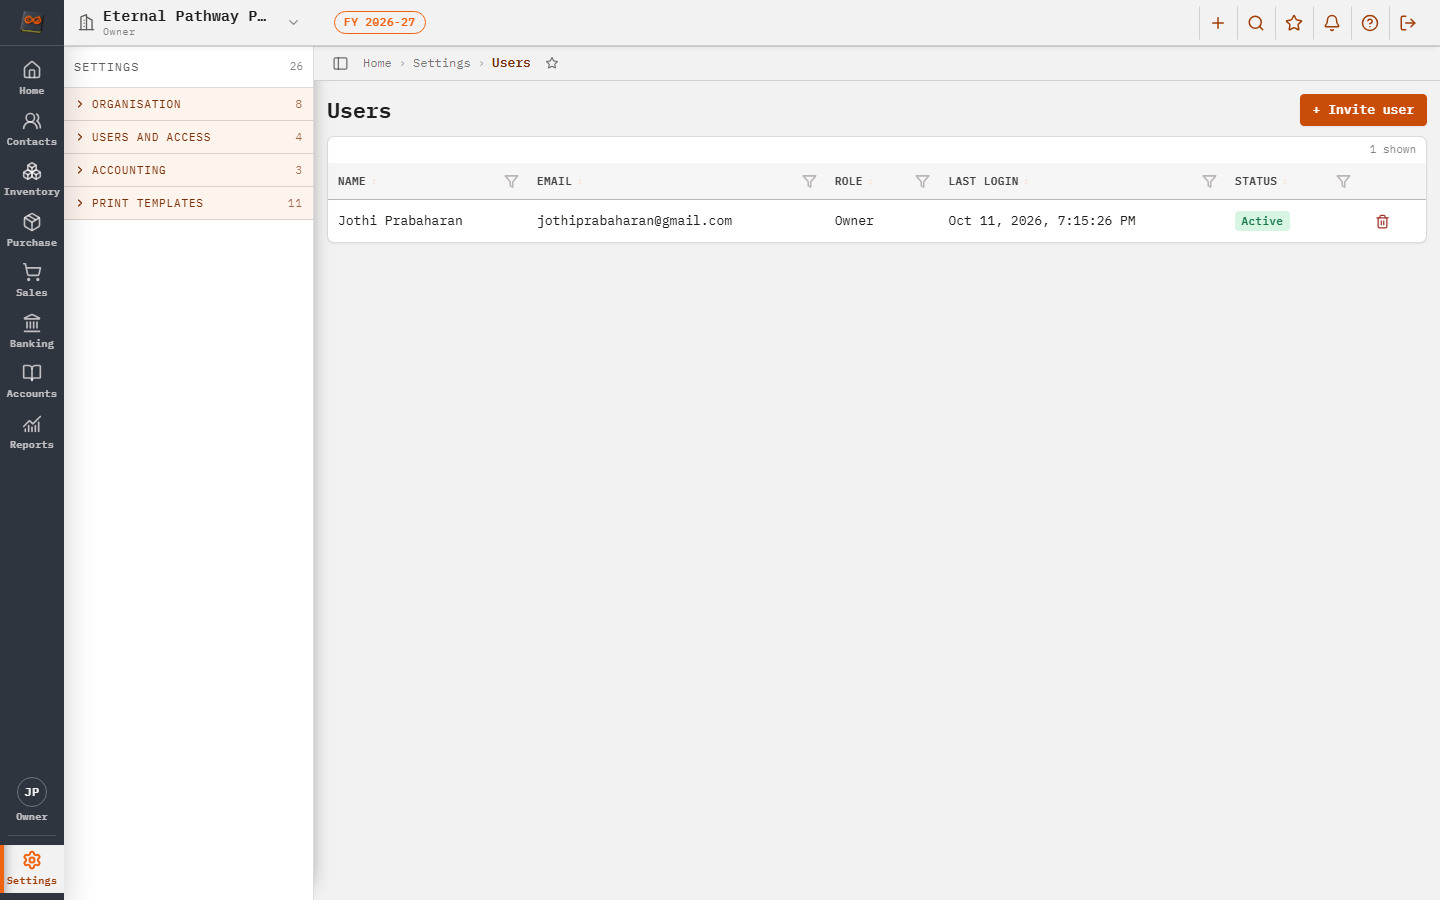
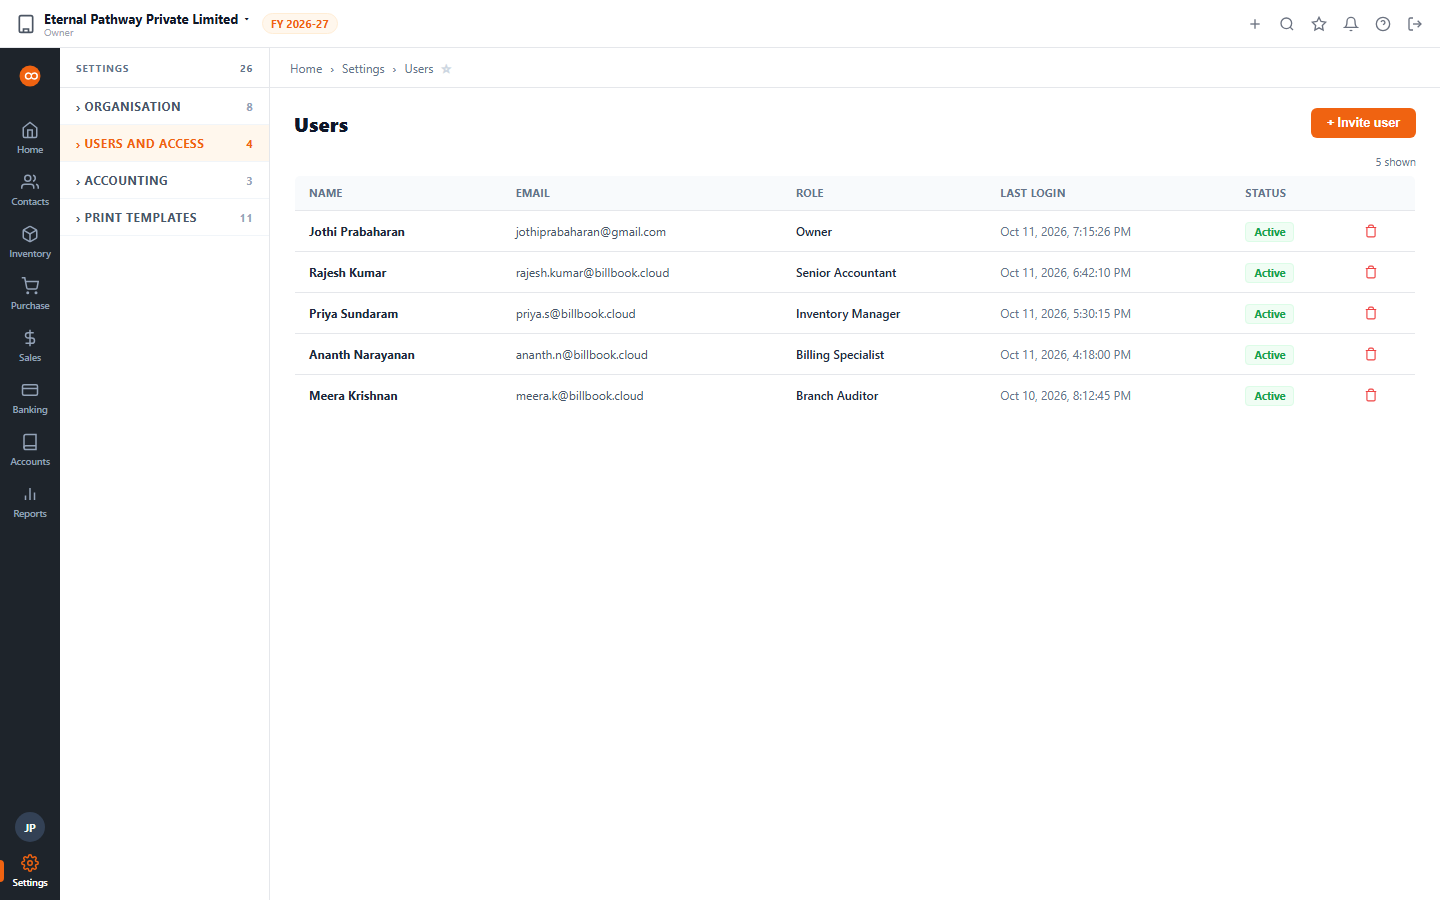
fix(website): eliminate excessive whitespace in module cards and display full-frame dashboard with sidebar and topbar

diff --git a/frontend/apps/website/src/app/home/home-page.component.scss b/frontend/apps/website/src/app/home/home-page.component.scss
@@ -564,7 +564,7 @@
 
     @media (min-width: 992px) {
       grid-template-columns: 380px 1fr;
-      gap: 36px;
+      gap: 32px;
       align-items: stretch;
     }
   }
@@ -573,18 +573,14 @@
     background: var(--color-bg);
     border: 1px solid var(--color-border);
     border-radius: var(--radius-lg);
-    padding: 32px;
+    padding: 26px;
     display: flex;
     flex-direction: column;
     box-sizing: border-box;
 
-    @media (min-width: 992px) {
-      height: 560px;
-    }
-
     .module-badge {
       align-self: flex-start;
-      margin-bottom: 14px;
+      margin-bottom: 12px;
     }
 
     .module-card-title {
@@ -592,14 +588,14 @@
       font-weight: 800;
       color: var(--color-ink);
       line-height: 1.3;
-      margin-bottom: 12px;
+      margin-bottom: 10px;
     }
 
     .module-card-desc {
-      font-size: 14px;
+      font-size: 13.5px;
       color: var(--color-slate-medium);
-      line-height: 1.6;
-      margin-bottom: 22px;
+      line-height: 1.55;
+      margin-bottom: 18px;
     }
 
     .highlights-list {
@@ -607,7 +603,7 @@
       display: flex;
       flex-direction: column;
       gap: 12px;
-      margin-bottom: 20px;
+      margin-bottom: 16px;
 
       .highlight-item {
         display: flex;
@@ -615,7 +611,7 @@
         gap: 10px;
         font-size: 13px;
         color: var(--color-slate-dark);
-        line-height: 1.5;
+        line-height: 1.45;
 
         .check-icon {
           color: var(--color-success);
@@ -628,7 +624,17 @@
 
     .module-action-row {
       margin-top: auto;
-      padding-top: 16px;
+      padding-top: 12px;
+
+      .btn {
+        display: inline-flex;
+        align-items: center;
+        justify-content: center;
+        gap: 8px;
+        padding: 10px 20px;
+        font-weight: 700;
+        font-size: 13.5px;
+      }
     }
   }
 
@@ -636,18 +642,17 @@
     display: flex;
     flex-direction: column;
 
-    @media (min-width: 992px) {
-      height: 560px;
-    }
-
     .mini-frame {
       display: flex;
       flex-direction: column;
       height: 100%;
       box-shadow: var(--shadow-md);
       overflow: hidden;
+      border-radius: var(--radius-lg);
+      background: #ffffff;
 
       .browser-header {
+        height: 38px;
         flex-shrink: 0;
         .register-switcher {
           display: inline-flex;
@@ -683,10 +688,7 @@
       }
 
       .browser-body {
-        flex: 1;
-        display: flex;
-        flex-direction: column;
-        min-height: 380px;
+        height: 360px;
         position: relative;
         background: #ffffff;
         overflow: hidden;
@@ -694,8 +696,6 @@
         .screenshot-img {
           width: 100%;
           height: 100%;
-          flex: 1;
-          min-height: 0;
           display: block;
           object-fit: cover;
           object-position: top left;
@@ -703,12 +703,13 @@
       }
 
       .screenshot-info {
+        height: 38px;
         flex-shrink: 0;
         margin-top: auto;
         display: flex;
         align-items: center;
         gap: 10px;
-        padding: 10px 16px;
+        padding: 0 16px;
         background: #f7f6f5;
         border-top: 1px solid var(--color-border-subtle);
         font-size: 12px;

diff --git a/frontend/apps/website/src/app/home/home-page.component.ts b/frontend/apps/website/src/app/home/home-page.component.ts
@@ -196,7 +196,7 @@ export class HomePageComponent {
       shortTitle: 'Users & Permissions',
       badge: 'Role-Based Access Control',
       description:
-        'Multi-branch user provisioning, role-based access control (RBAC), user invite links, and master contacts directory backed by dedicated database security.',
+        'Multi-branch user provisioning, role-based access control (RBAC), user invite links, and master contacts directory with dedicated database security.',
       primaryImage: 'assets/screenshots/users-management.png',
       primaryCaption: 'User Directory & Access Control — Real live users (Jothi Prabaharan, Owner), role assignments, and branch provisioning',
       primaryUrl: 'settings/users',
@@ -204,10 +204,10 @@ export class HomePageComponent {
       secondaryCaption: 'Master Contacts Directory — Customers, vendors, and job workers with GSTIN verification and credit limits',
       secondaryUrl: 'contacts',
       highlights: [
-        'Real-time user provisioning with role-based access control (RBAC) across all branches',
-        'PostgreSQL Standalone Database guaranteeing 100% data isolation per organization',
-        'Contacts Master with automated GSTIN validation and state code tax classification',
-        'Complete immutable audit log recording creator, timestamp, and modification delta',
+        'Real-time user provisioning with role-based access control (RBAC)',
+        'PostgreSQL Standalone Database guaranteeing 100% data isolation',
+        'Contacts Master with automated GSTIN validation & state tax codes',
+        'Complete immutable audit log recording creator, time, and delta',
       ],
     },
   ];
